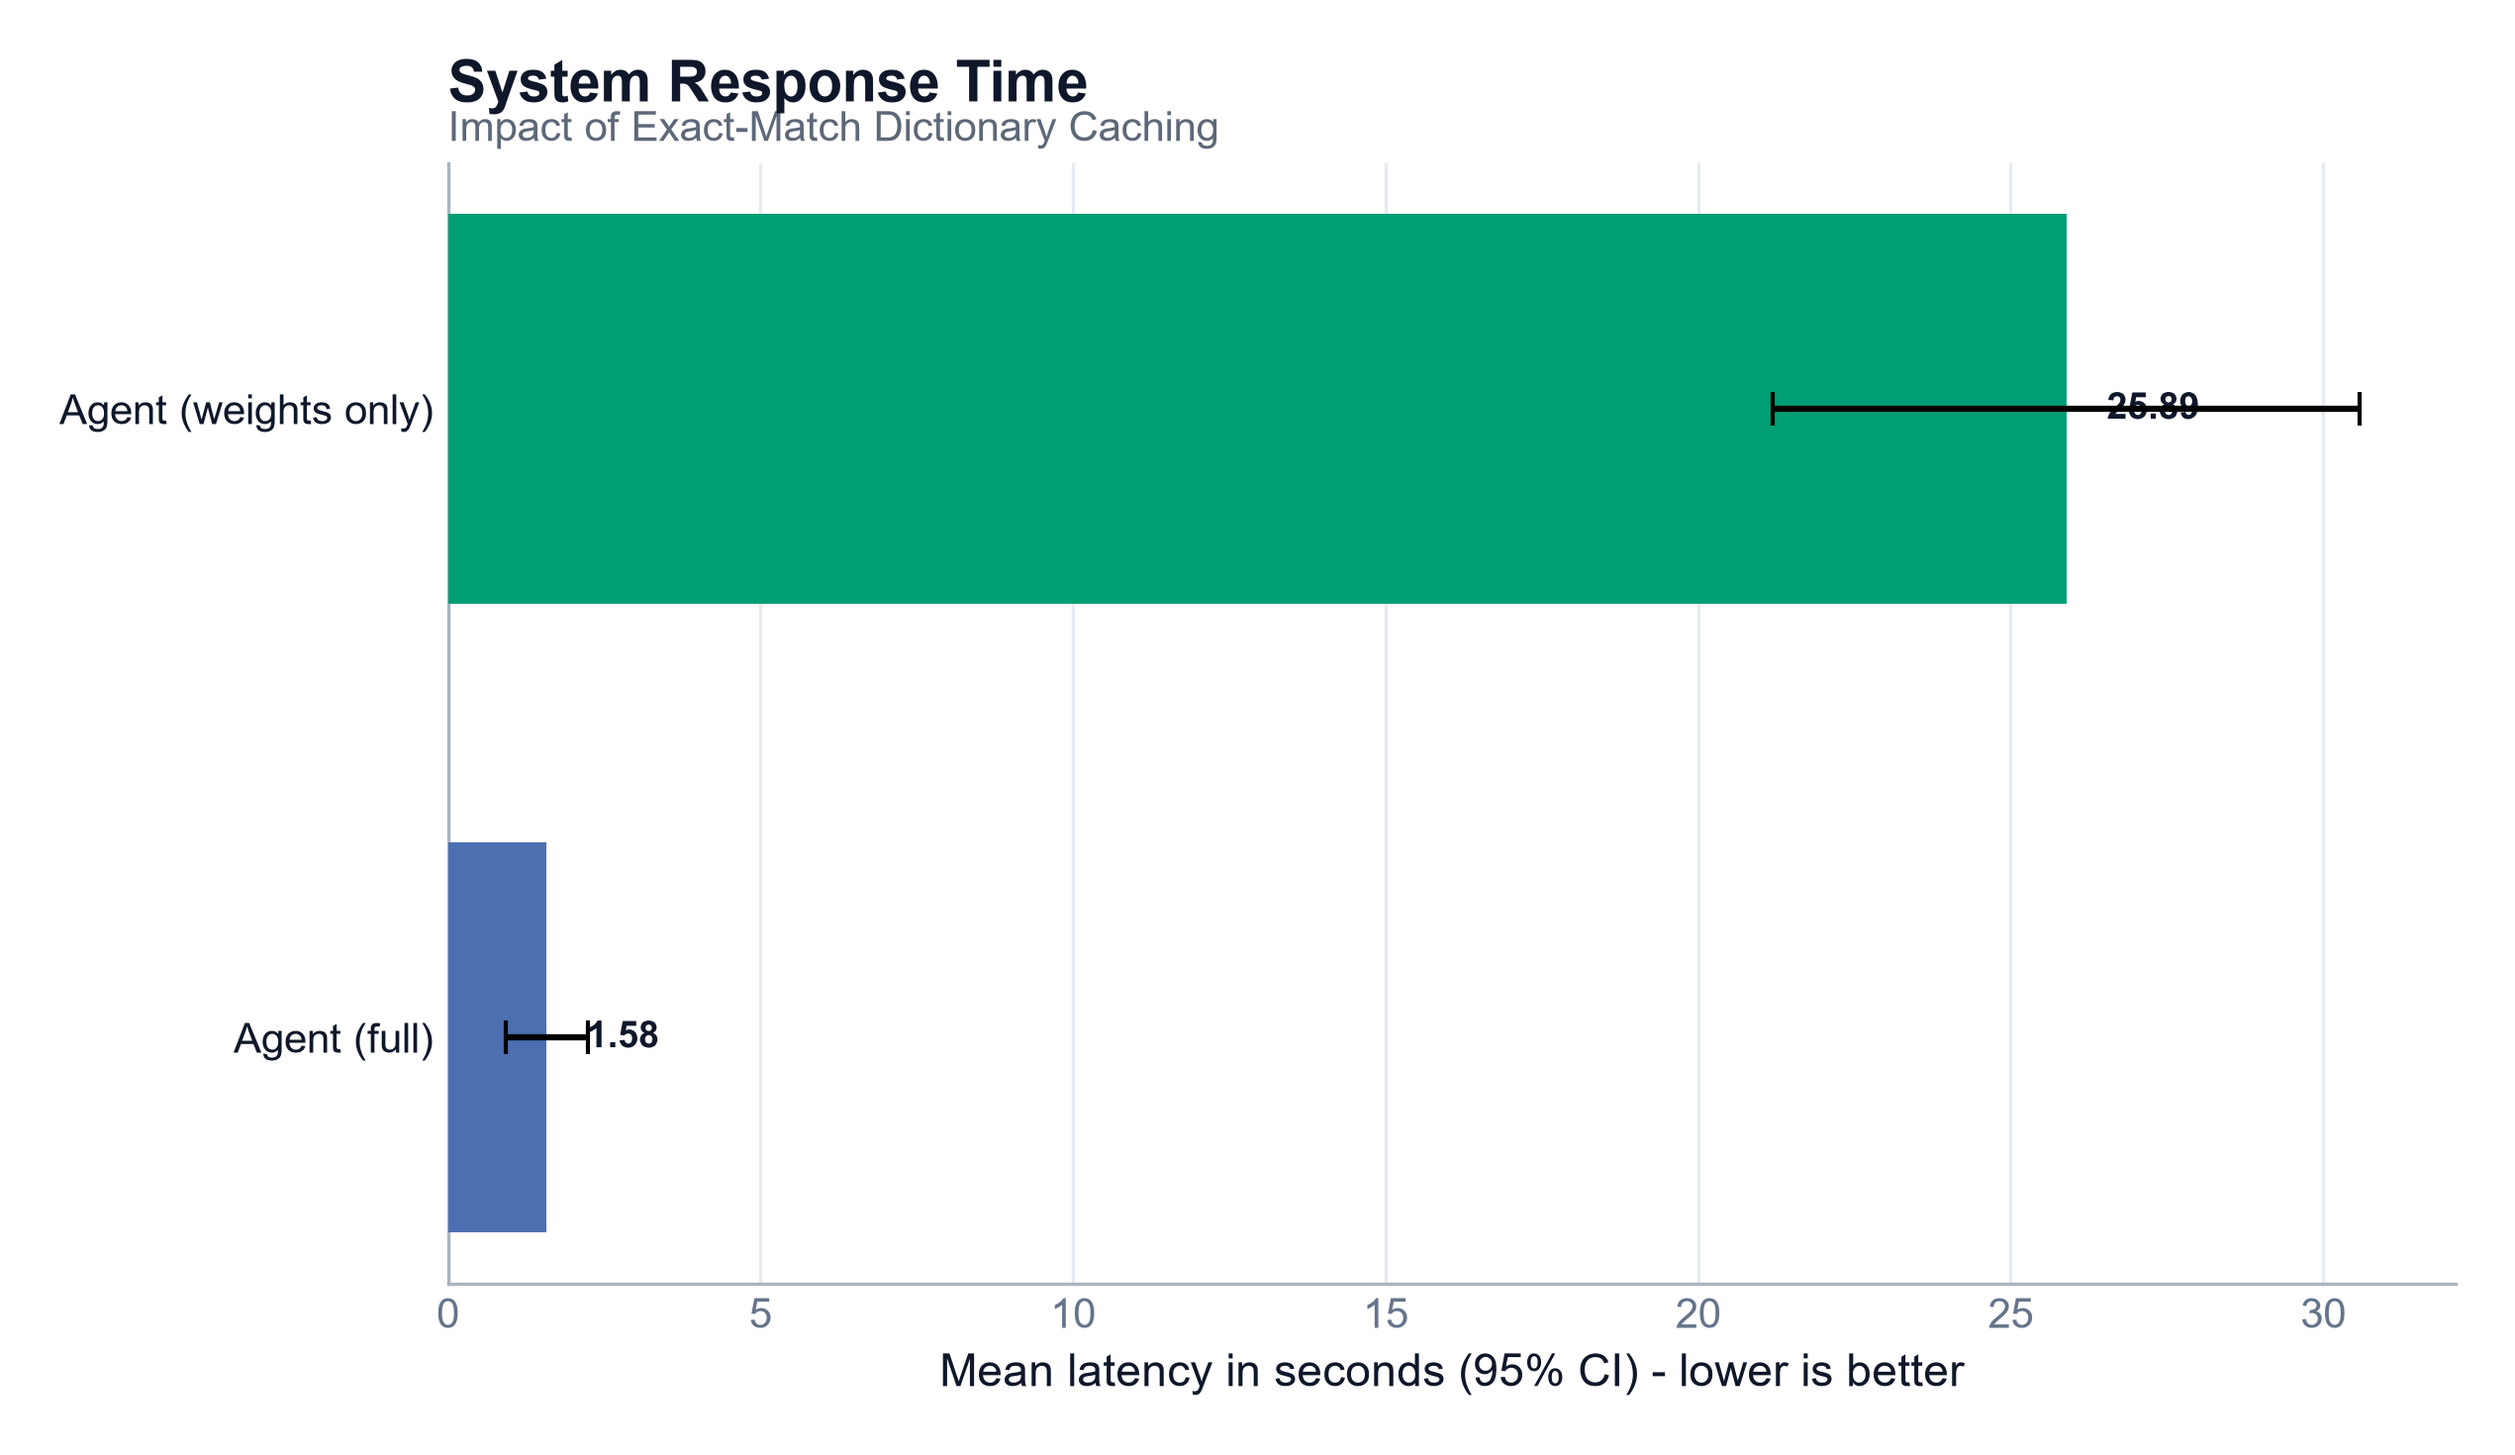
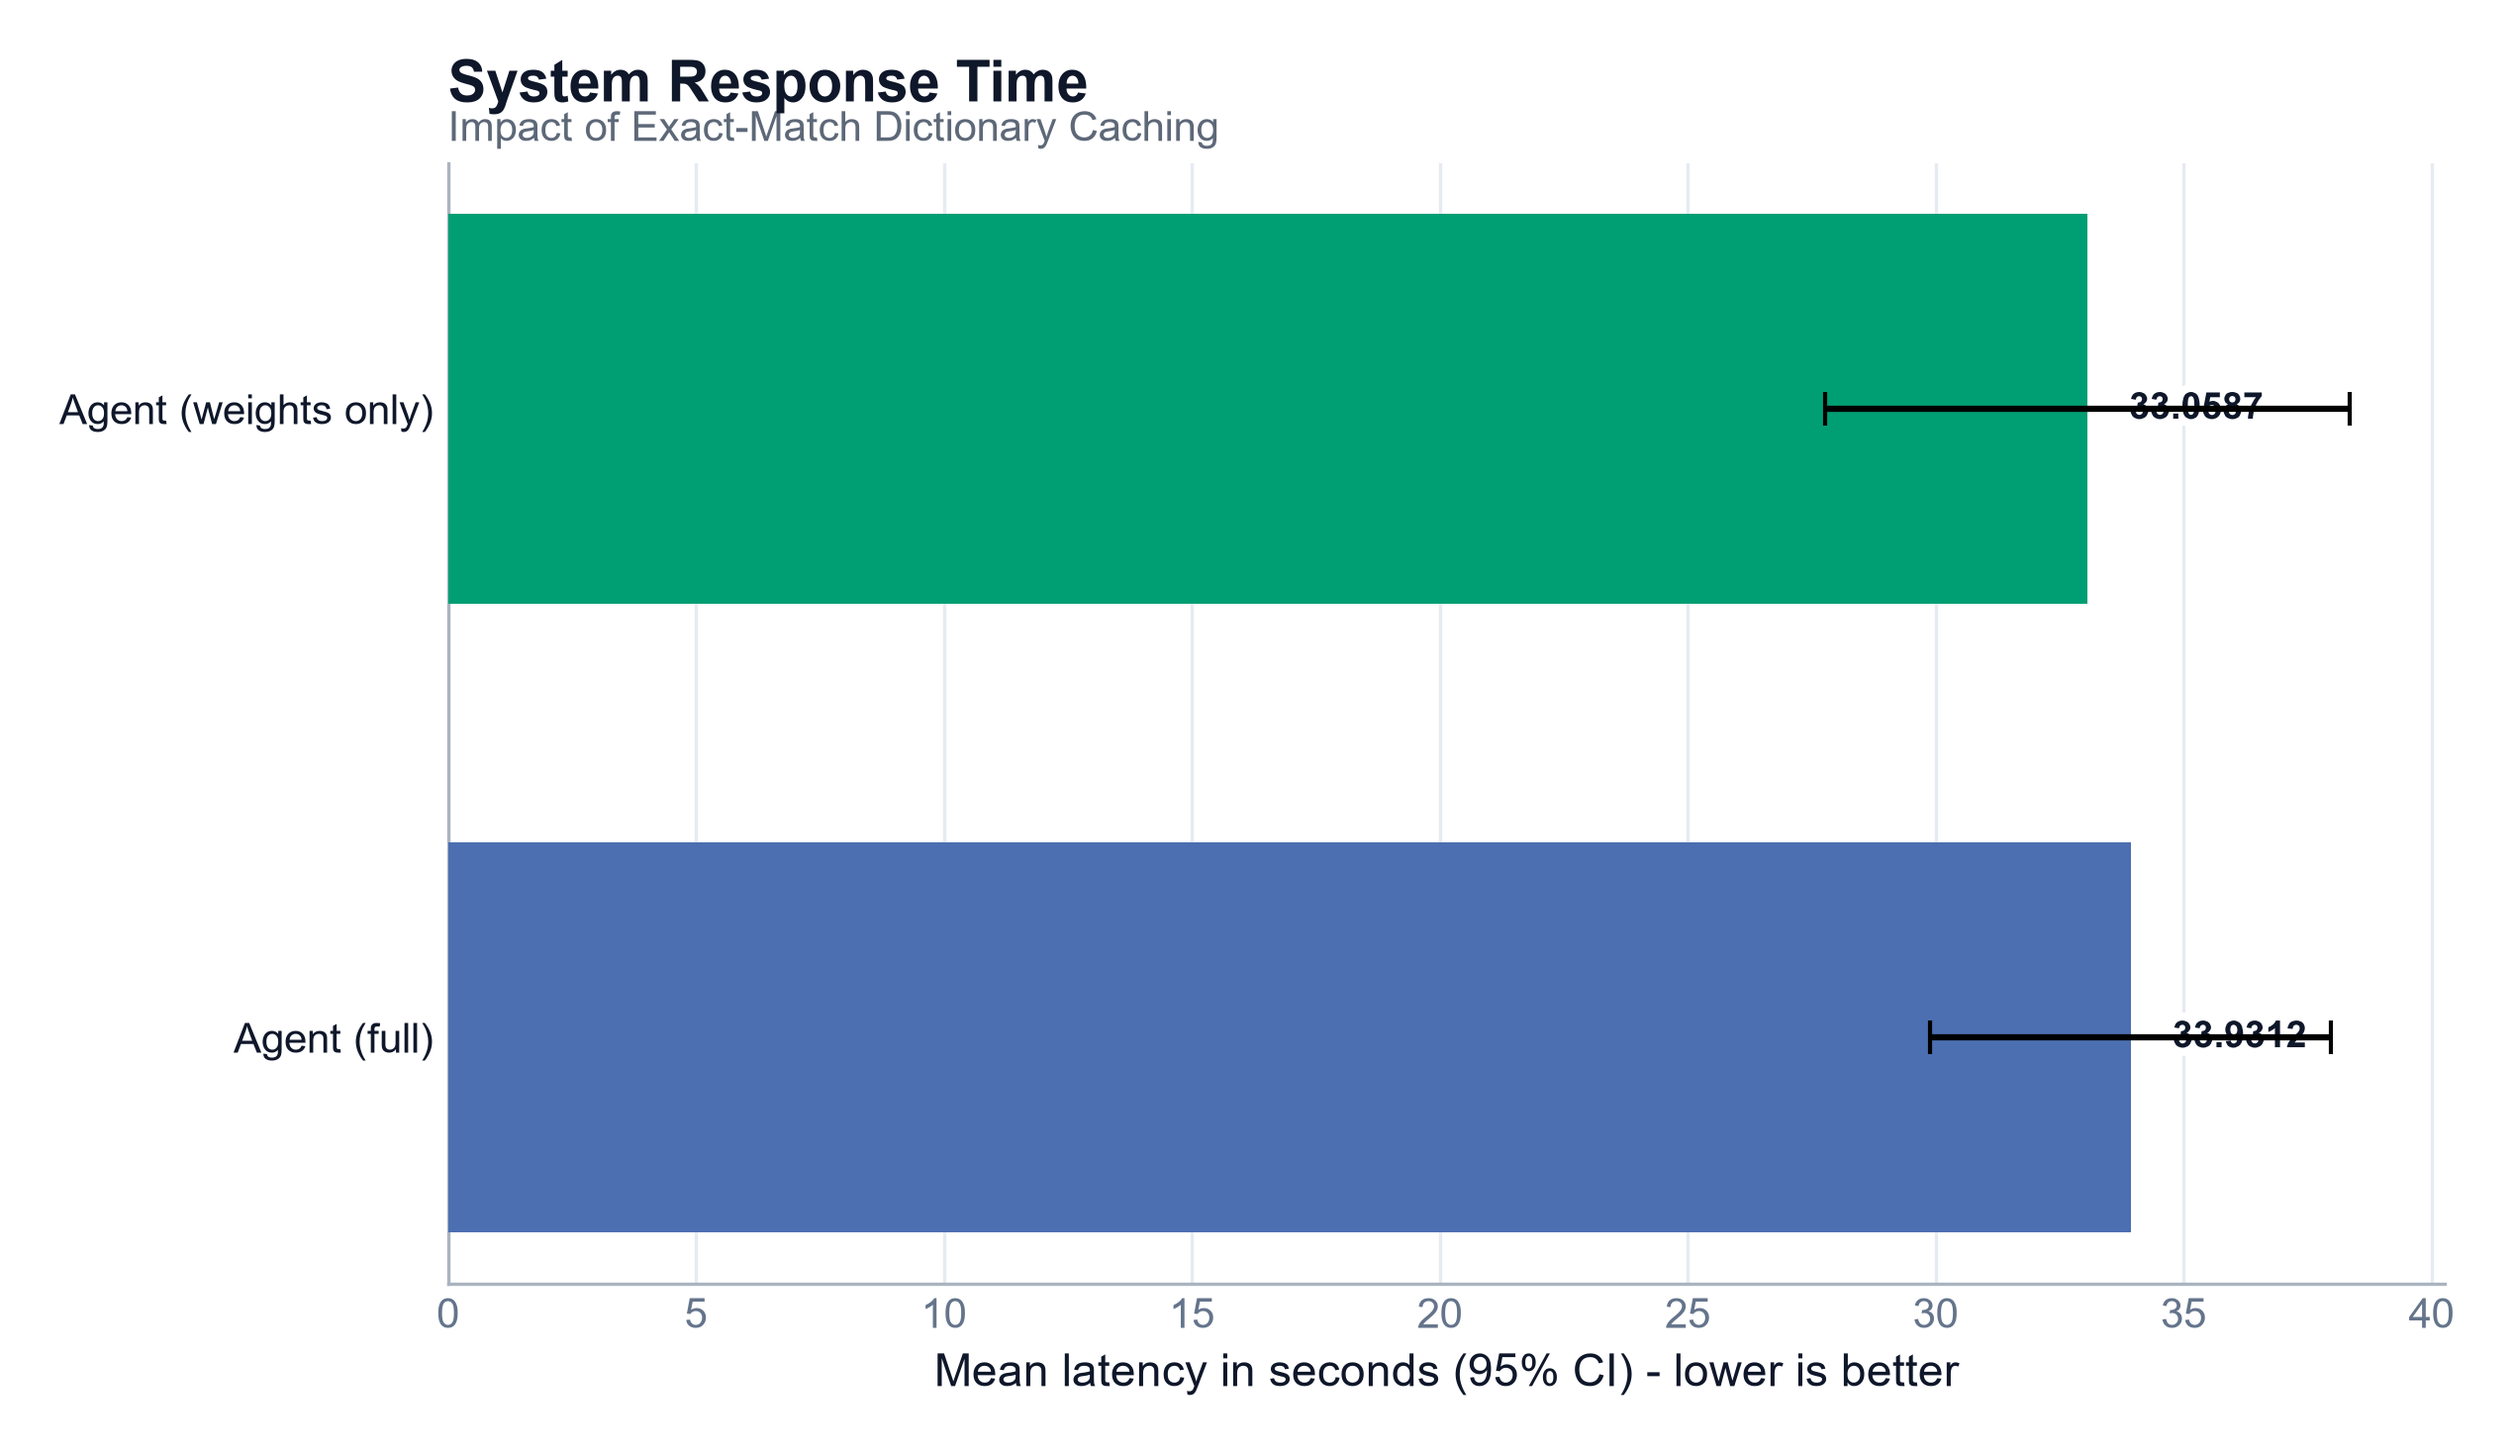
Refactor and update latency_by_condition.png and related files

diff --git a/results/tables/extended_analysis.md b/results/tables/extended_analysis.md
@@ -6,23 +6,23 @@ This file is generated by `scripts/08_generate_extended_analysis.py`.
 
 | condition          |     regret |
 |:-------------------|-----------:|
-| Lookup table       | 0.00836824 |
-| Global fixed       | 0.0135645  |
-| Agent weights-only | 0.0222371  |
-| Full agent         | 0.0222371  |
+| Lookup table       | 0.00570333 |
+| Full agent         | 0.00607576 |
+| Global fixed       | 0.0103225  |
+| Agent weights-only | 0.0111642  |
 
 ## Regret By Task Kind
 
-| task_kind   | condition          |    regret | condition_label    |
-|:------------|:-------------------|----------:|:-------------------|
-| held_out    | agent_full         | 0.0264946 | Full agent         |
-| held_out    | agent_weights_only | 0.0264946 | Agent weights-only |
-| held_out    | global_fixed       | 0.0130903 | Global fixed       |
-| held_out    | lookup_table       | 0.0130903 | Lookup table       |
-| profile     | agent_full         | 0.0159761 | Full agent         |
-| profile     | agent_weights_only | 0.0159761 | Agent weights-only |
-| profile     | global_fixed       | 0.0142759 | Global fixed       |
-| profile     | lookup_table       | 0.0012851 | Lookup table       |
+| task_kind   | condition          |     regret | condition_label    |
+|:------------|:-------------------|-----------:|:-------------------|
+| held_out    | agent_full         | 0.00531629 | Full agent         |
+| held_out    | agent_weights_only | 0.0132724  | Agent weights-only |
+| held_out    | global_fixed       | 0.00903221 | Global fixed       |
+| held_out    | lookup_table       | 0.00903221 | Lookup table       |
+| profile     | agent_full         | 0.00708839 | Full agent         |
+| profile     | agent_weights_only | 0.00835321 | Agent weights-only |
+| profile     | global_fixed       | 0.0120429  | Global fixed       |
+| profile     | lookup_table       | 0.00126482 | Lookup table       |
 
 ## Drift Adaptation Summary
 
@@ -37,20 +37,20 @@ This file is generated by `scripts/08_generate_extended_analysis.py`.
 
 | condition          |   latency_seconds |
 |:-------------------|------------------:|
-| Agent weights-only |      34.7467      |
-| Full agent         |       5.38712e-05 |
+| Agent weights-only |           33.0587 |
+| Full agent         |           33.9312 |
 
 ## Strategy Frequency From Memory
 
 | strategy            |   count | strategy_label      |
 |:--------------------|--------:|:--------------------|
-| topsis              |    2410 | Topsis              |
-| weighted_sum        |     886 | Weighted Sum        |
-| skyline_then_topsis |     312 | Skyline Then Topsis |
+| weighted_sum        |    3573 | Weighted Sum        |
+| topsis              |    2451 | Topsis              |
+| skyline_then_topsis |     376 | Skyline Then Topsis |
 
 ## Figures Generated
 
-- `C:/Users/manga/Projects/github/BTP/results/figures/regret_by_task_kind.png`
-- `C:/Users/manga/Projects/github/BTP/results/figures/agent_latency_by_condition.png`
-- `C:/Users/manga/Projects/github/BTP/results/figures/strategy_selection_frequency.png`
-- `C:/Users/manga/Projects/github/BTP/results/figures/drift_trace_example.png`
+- `C:/Users/manga/Projects/github/IDKHowToCodeFR/BTP/results/figures/regret_by_task_kind.png`
+- `C:/Users/manga/Projects/github/IDKHowToCodeFR/BTP/results/figures/agent_latency_by_condition.png`
+- `C:/Users/manga/Projects/github/IDKHowToCodeFR/BTP/results/figures/strategy_selection_frequency.png`
+- `C:/Users/manga/Projects/github/IDKHowToCodeFR/BTP/results/figures/drift_trace_example.png`
